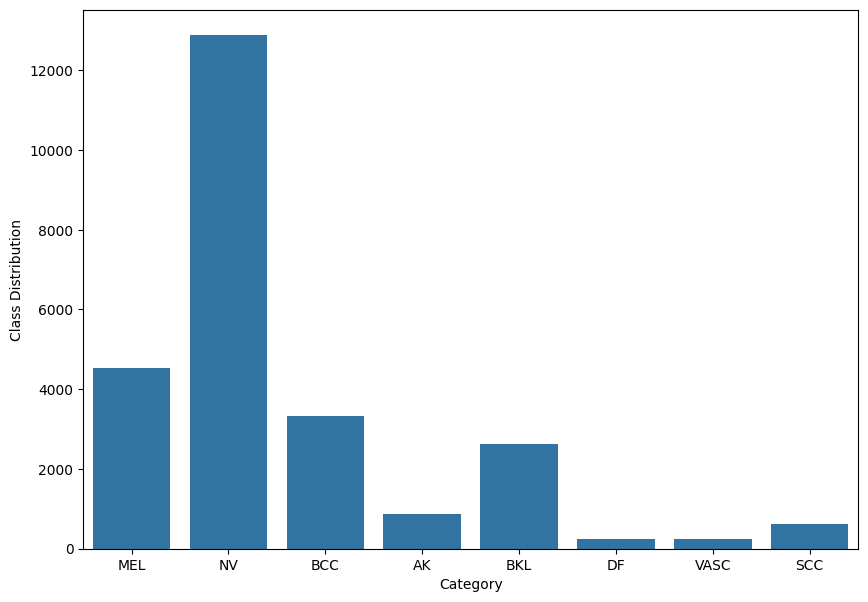
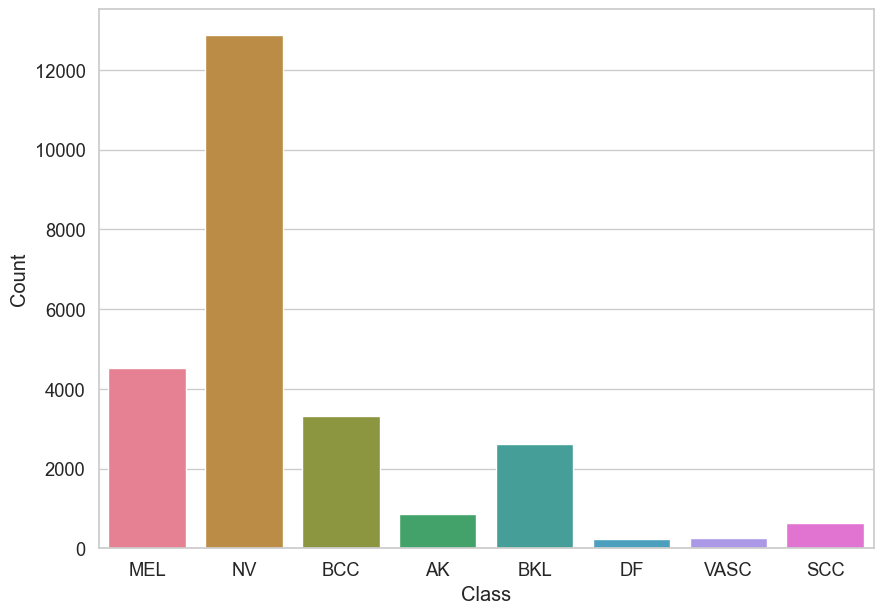
change colors to make images look nicer

diff --git a/scripts/validate/lightweight_baseline_validate.py b/scripts/validate/lightweight_baseline_validate.py
@@ -45,9 +45,15 @@ class LightWeight_Baseline(nn.Module):
         x = self.model.forward_features(x)
         return self.model.forward_head(x, pre_logits=True)
 
-    def forward(self, x):
-        x = self.model(x)
+    def classifier(self, x):
+        if hasattr(self.model, 'classifier'):
+            x = self.model.classifier(x)
+        else:
+            x = self.model.head(x)
         return x
+
+    def forward(self, x):
+        return self.model(x)
 
 def parse_args():
     parser = argparse.ArgumentParser(description='PyTorch Validation')
@@ -175,7 +181,7 @@ def validate(args):
             features = model.forward_head(input)
             feature_chunks.append(features.cpu())
 
-            output = model(input)
+            output = model.classifier(features)
             if isinstance(output, (tuple, list)):
                 output = output[0]
 
